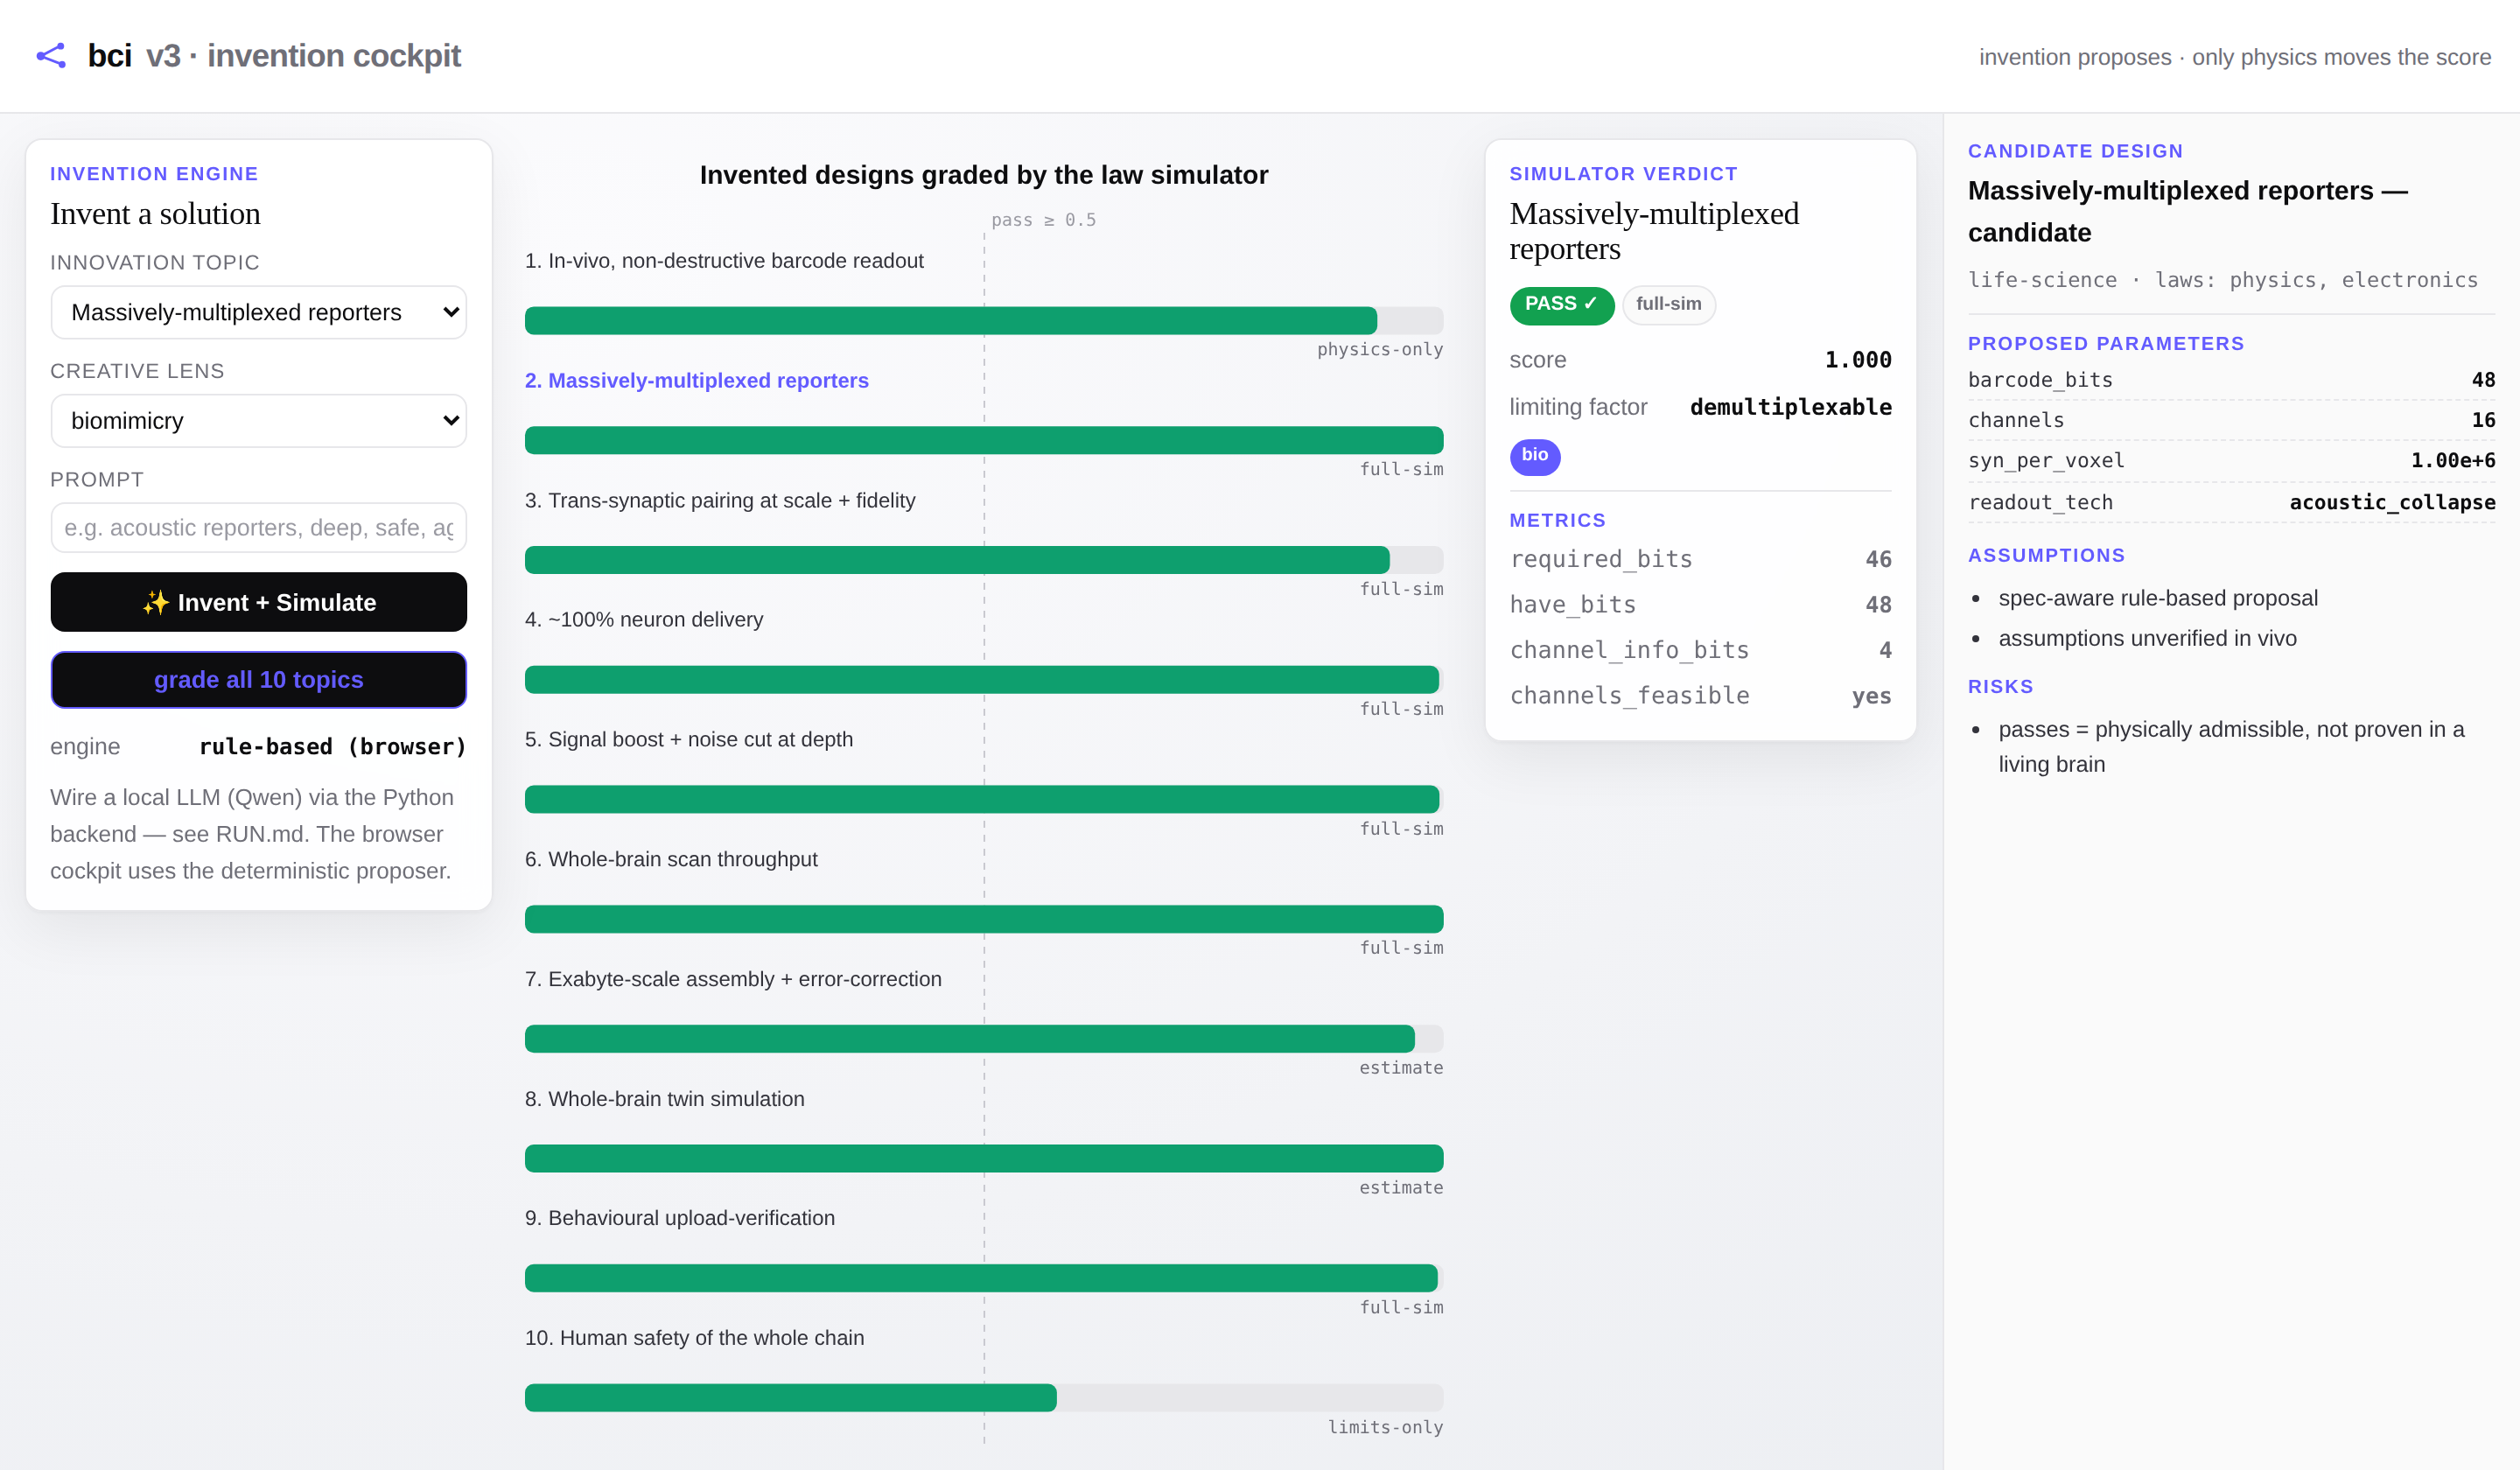
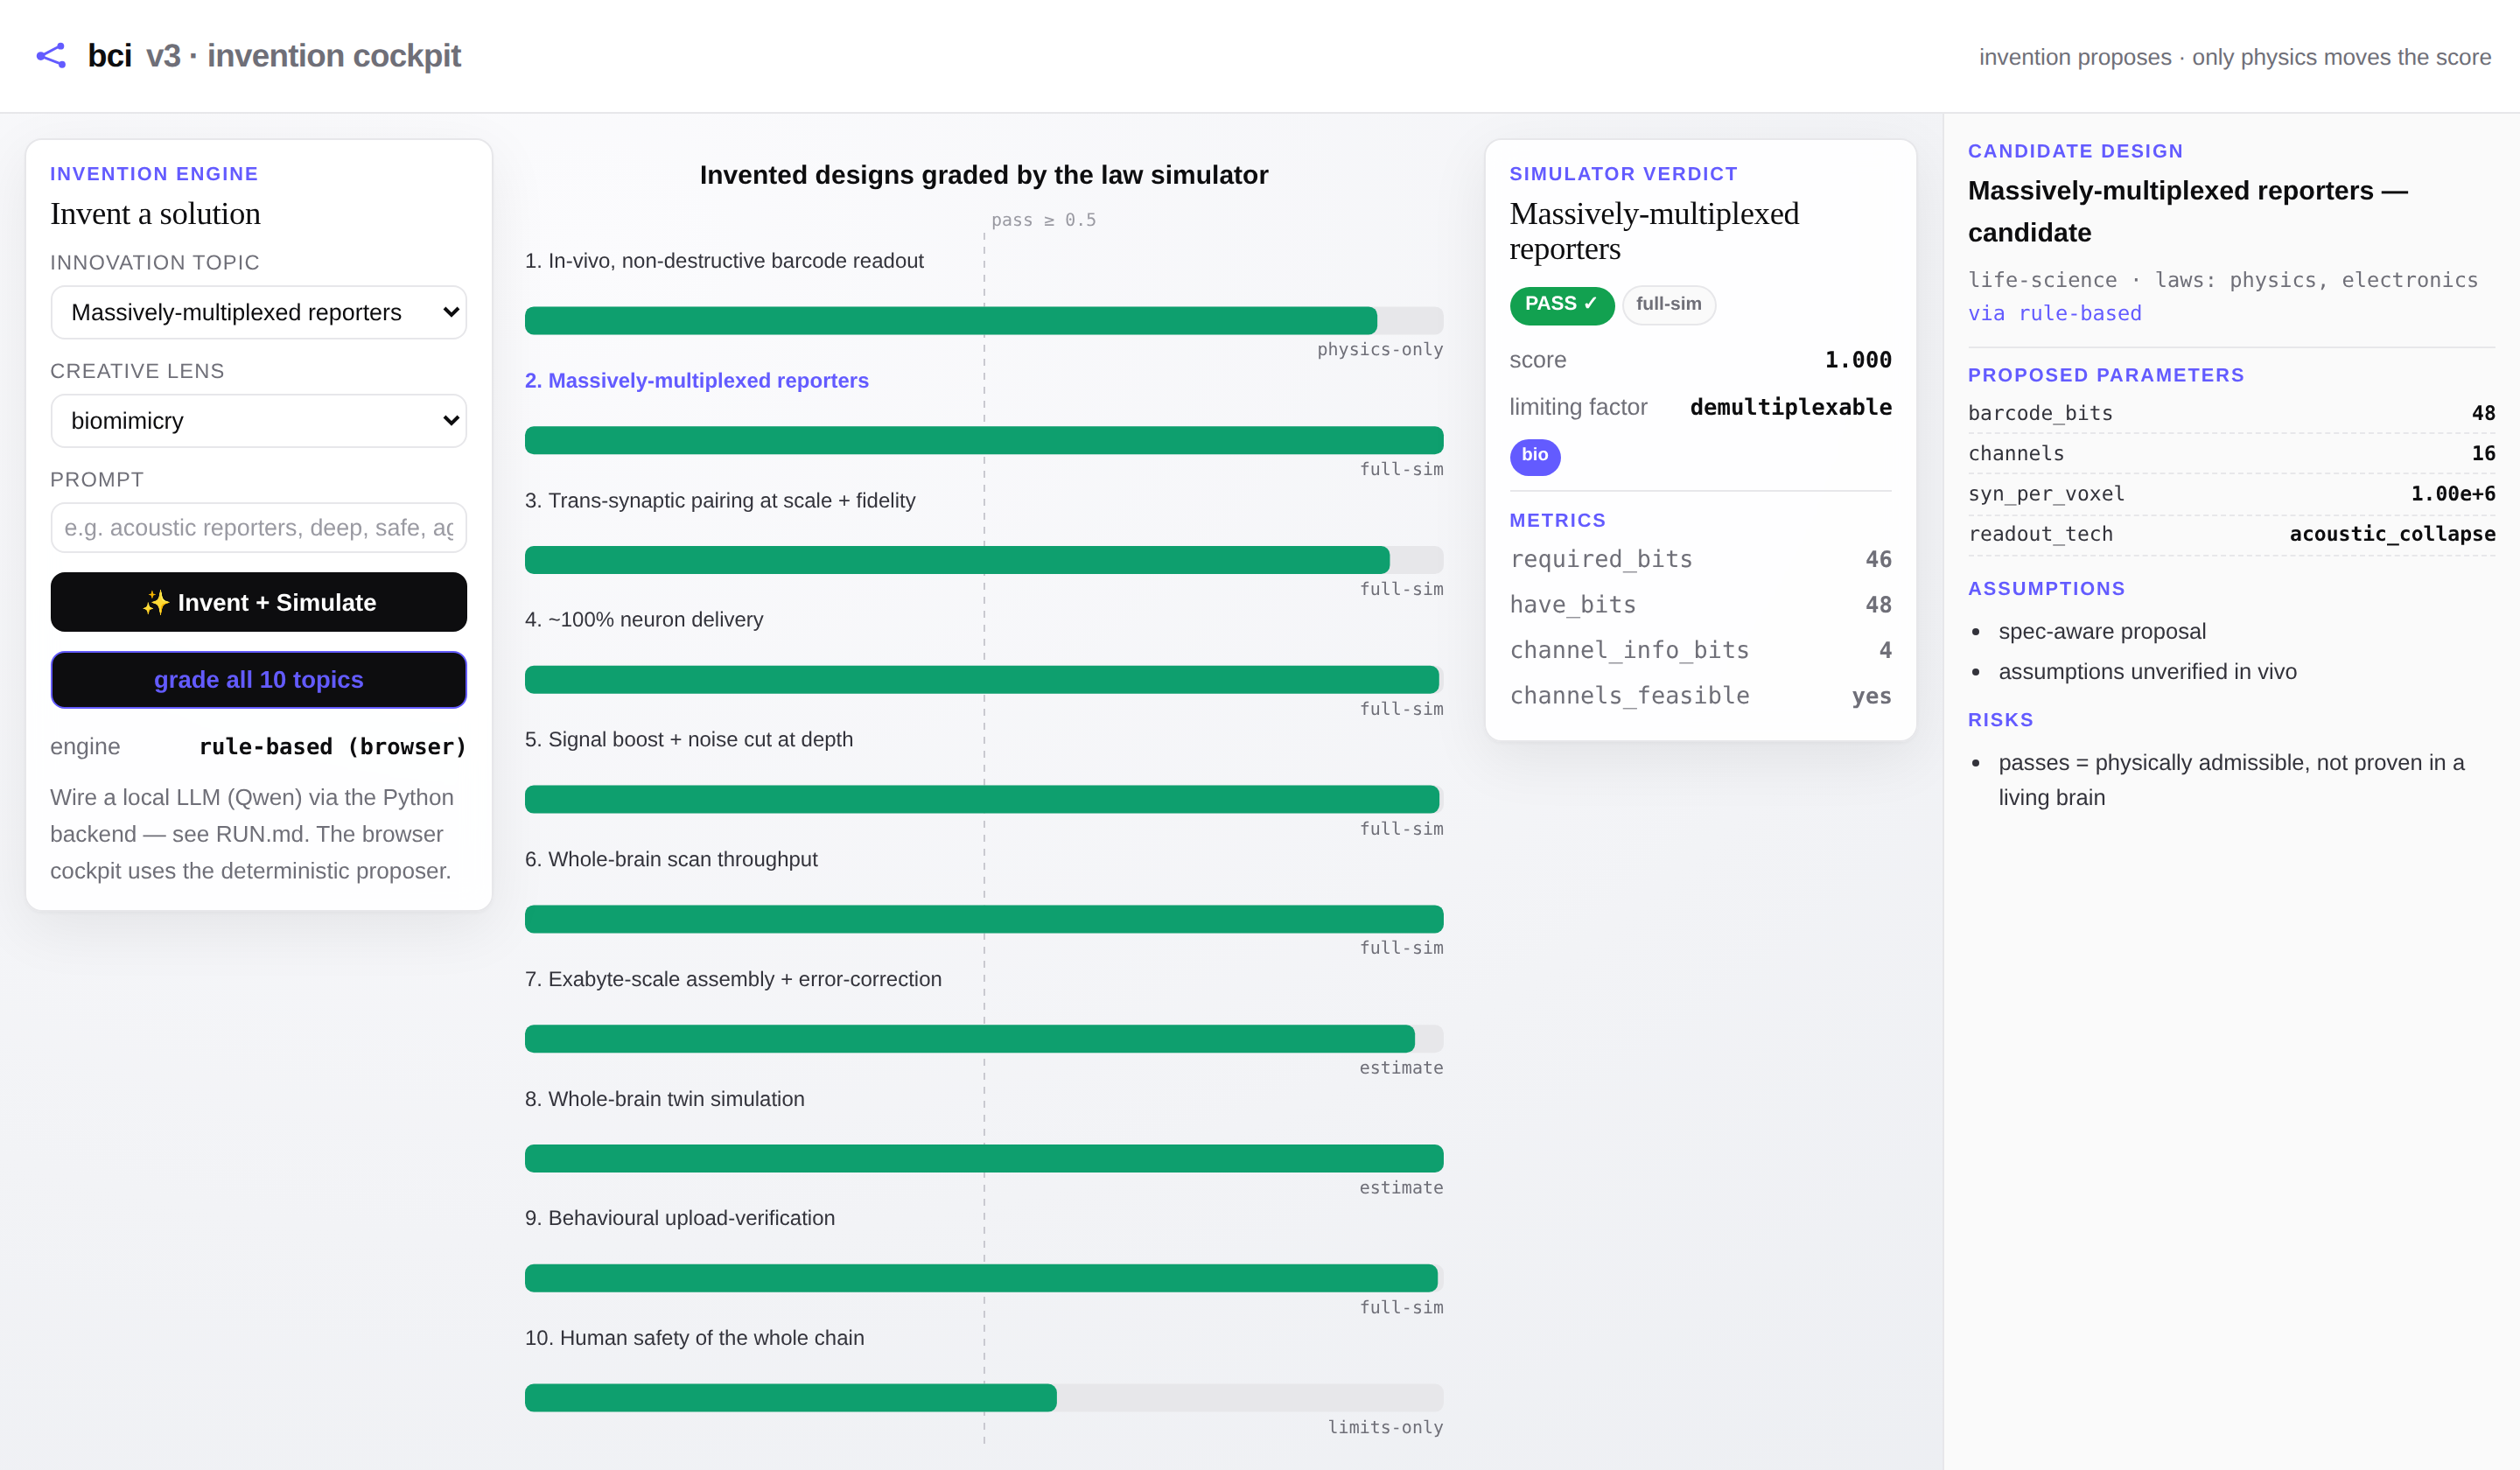
v3: thin FastAPI backend + .env config; cockpit calls Qwen live through the Python engine
- bciv3/api/app.py: FastAPI endpoints (/api/health, /api/topics, /api/invent, /api/design, /api/rank) with CORS
- llm.py: zero-dependency .env loader (LOCAL_LLM_URL / LOCAL_LLM_MODEL / NVIDIA_API_KEY …); exported vars win
- .env.example template; .env git-ignored
- cockpit viewer: auto-detects the backend, routes Invent+Simulate to the Python engine (real LLM lenses), shows provider + mechanism + assumptions/risks; graceful browser fallback when backend down
- RUN.md: backend + .env sections; pyproject api extra; +2 tests (15 total)

Changed region(s): [[0.7812, 0.2167, 0.9688, 0.5571], [0.9062, 0.2786, 1.0, 0.3714]]

diff --git a/docs/app/js/viewer.js b/docs/app/js/viewer.js
@@ -7,6 +7,21 @@ const $ = (id) => document.getElementById(id);
 const scores = {};                 // tid -> {score, passed, fidelity}
 let selected = TOPIC_IDS[0];
 
+// Optional Python backend (FastAPI). If it's up, 'Invent + Simulate' routes there so the real
+// LLM lenses + critique loop run (and your local Qwen, if wired). Otherwise the browser proposer.
+const API = localStorage.getItem('bciv3_api') || 'http://localhost:8000';
+let apiUp = false, apiProvider = null;
+
+async function probeApi() {
+  try {
+    const r = await fetch(API + '/api/health', { signal: AbortSignal.timeout(1200) });
+    if (!r.ok) return;
+    const h = await r.json();
+    apiUp = true; apiProvider = h.backends?.provider || null;
+    $('backend').textContent = apiProvider ? `${apiProvider} (backend)` : 'backend (no LLM)';
+  } catch { apiUp = false; }
+}
+
 // ---- populate selectors ----
 for (const tid of TOPIC_IDS) {
   const o = document.createElement('option');
@@ -69,12 +84,32 @@ function roundRect(x, y, w, h, r) {
   ctx.arcTo(x, y + h, x, y, r); ctx.arcTo(x, y, x + w, y, r); ctx.closePath();
 }
 
-// ---- run one invention ----
-function runOne(tid) {
+// ---- run one invention (backend if up → real LLM lenses; else browser proposer) ----
+function runLocal(tid) {
   const cand = invent(tid, $('prompt').value);
   const s = simulate(tid, cand);
   scores[tid] = { score: s.score, passed: s.passed, fidelity: TOPICS[tid].fidelity };
   return { cand, s };
+}
+
+async function runOne(tid) {
+  if (!apiUp) return runLocal(tid);
+  try {
+    const r = await fetch(API + '/api/invent', {
+      method: 'POST', headers: { 'content-type': 'application/json' },
+      body: JSON.stringify({ topic: tid, prompt: $('prompt').value, lens: $('lens').value, backend: 'auto' }),
+      signal: AbortSignal.timeout(120000),
+    });
+    const d = await r.json();
+    if (d.error) throw new Error(d.error);
+    const res = d.result, cand = { ...d.candidate };
+    const s = { score: res.score, passed: res.passed, limiting: res.limiting, metrics: res.metrics };
+    scores[tid] = { score: res.score, passed: res.passed, fidelity: res.fidelity };
+    return { cand, s };
+  } catch (e) {
+    apiUp = false; $('backend').textContent = 'rule-based (browser)';
+    return runLocal(tid);
+  }
 }
 
 function showVerdict(tid, cand, s) {
@@ -93,9 +128,17 @@ function showVerdict(tid, cand, s) {
   $('c-domain').textContent = `${t.domain} · laws: ${t.laws.join(', ')}`;
   $('c-params').innerHTML = Object.entries(cand.params).map(([k, v]) =>
     `<div class="kv"><span>${k}</span><b>${fmt(v)}</b></div>`).join('');
-  $('c-assume').innerHTML = `<li>spec-aware rule-based proposal</li><li>assumptions unverified in vivo</li>`;
-  $('c-risks').innerHTML = `<li>passes = physically admissible, not proven in a living brain</li>`;
+  const li = (arr, fb) => (arr && arr.length ? arr : fb).map((x) => `<li>${esc(x)}</li>`).join('');
+  $('c-assume').innerHTML = li(cand.assumptions, ['spec-aware proposal', 'assumptions unverified in vivo']);
+  $('c-risks').innerHTML = li(cand.risks, ['passes = physically admissible, not proven in a living brain']);
+  // mechanism (LLM path) + provenance
+  const via = cand.backend === 'llm' ? `${cand.provider || 'llm'} · lens: ${cand.lens || '?'}`
+            : cand.backend === 'llm-refine' ? 'llm (refined)' : 'rule-based';
+  $('c-mech').innerHTML = cand.mechanism ? `<div class="eyebrow" style="margin-top:.6rem">Mechanism</div><p class="small" style="color:var(--ink-2)">${esc(cand.mechanism)}</p>` : '';
+  $('c-via').textContent = 'via ' + via;
 }
+
+function esc(s) { return String(s).replace(/[<>&]/g, (c) => ({ '<': '&lt;', '>': '&gt;', '&': '&amp;' }[c])); }
 
 function fmt(v) {
   if (typeof v === 'boolean') return v ? 'yes' : 'no';
@@ -105,14 +148,26 @@ function fmt(v) {
 }
 
 // ---- events ----
-$('topic').addEventListener('change', (e) => { selected = e.target.value; const { cand, s } = runOne(selected); showVerdict(selected, cand, s); draw(); });
-$('invent').addEventListener('click', () => { selected = $('topic').value; const { cand, s } = runOne(selected); showVerdict(selected, cand, s); draw(); });
-$('all').addEventListener('click', () => {
-  for (const tid of TOPIC_IDS) runOne(tid);
-  const { cand, s } = runOne(selected); showVerdict(selected, cand, s); draw();
+async function inventSelected() {
+  selected = $('topic').value;
+  $('invent').textContent = apiUp ? '… inventing (LLM)' : '… inventing';
+  const { cand, s } = await runOne(selected);
+  showVerdict(selected, cand, s); draw();
+  $('invent').textContent = '✨ Invent + Simulate';
+}
+$('topic').addEventListener('change', inventSelected);
+$('invent').addEventListener('click', inventSelected);
+$('all').addEventListener('click', async () => {
+  $('all').textContent = '… grading all';
+  for (const tid of TOPIC_IDS) { await runOne(tid); draw(); }
+  const { cand, s } = await runOne(selected); showVerdict(selected, cand, s); draw();
+  $('all').textContent = 'grade all 10 topics';
 });
 
 // ---- init ----
 $('topic').value = selected;
-{ const { cand, s } = runOne(selected); showVerdict(selected, cand, s); }
+(async () => {
+  await probeApi();
+  const { cand, s } = await runOne(selected); showVerdict(selected, cand, s); draw();
+})();
 resize();

diff --git a/docs/app/index.html b/docs/app/index.html
@@ -62,6 +62,8 @@
       <div class="eyebrow">Candidate design</div>
       <h4 id="c-title">—</h4>
       <div class="mono muted small" id="c-domain"></div>
+      <div class="mono small" id="c-via" style="color:var(--molecular)"></div>
+      <div id="c-mech"></div>
       <hr class="divider" />
       <div class="eyebrow">Proposed parameters</div>
       <div id="c-params"></div>

diff --git a/backend/bciv3/api/app.py b/backend/bciv3/api/app.py
@@ -1,0 +1,76 @@
+"""Thin FastAPI backend — lets the cockpit call the Python invention engine (and your local
+Qwen) live. The browser cockpit runs the deterministic proposer on its own; when this server is
+up, the cockpit routes 'Invent + Simulate' here so the real LLM lenses + critique loop run.
+
+Run:  uvicorn bciv3.api.app:app --reload --port 8000
+CORS is wide-open (localhost dev tool); tighten `allow_origins` if you expose it.
+"""
+
+from __future__ import annotations
+
+from fastapi import FastAPI
+from fastapi.middleware.cors import CORSMiddleware
+from pydantic import BaseModel
+
+import bciv3
+from bciv3 import backends, invent, design, rank, report, all_ids
+from bciv3.engine import LENSES
+from bciv3.innovations import CATALOG
+
+app = FastAPI(title="BCI v3 — invention engine", version="0.1.0")
+app.add_middleware(
+    CORSMiddleware, allow_origins=["*"], allow_methods=["*"], allow_headers=["*"],
+)
+
+
+class InventReq(BaseModel):
+    topic: str
+    prompt: str = ""
+    lens: str = "biomimicry"
+    backend: str = "auto"          # auto | llm | fallback
+
+
+class DesignReq(InventReq):
+    rounds: int = 3
+
+
+class RankReq(BaseModel):
+    topic: str
+    prompt: str = ""
+    backend: str = "auto"
+
+
[email redacted]("/api/health")
+def health() -> dict:
+    return {"ok": True, "backends": backends()}
+
+
[email redacted]("/api/topics")
+def topics() -> dict:
+    return {"topics": [
+        {"id": tid, "title": inv.title, "layer": inv.layer, "domain": inv.domain,
+         "laws": inv.laws, "fidelity": inv.fidelity, "params": inv.param_schema}
+        for tid, inv in CATALOG.items()
+    ], "lenses": list(LENSES)}
+
+
[email redacted]("/api/invent")
+def do_invent(req: InventReq) -> dict:
+    if req.topic not in CATALOG:
+        return {"error": f"unknown topic {req.topic!r}", "topics": all_ids()}
+    cand = invent(req.topic, req.prompt, lens=req.lens, backend=req.backend)
+    return {"candidate": cand, "result": report(req.topic, cand)}
+
+
[email redacted]("/api/design")
+def do_design(req: DesignReq) -> dict:
+    if req.topic not in CATALOG:
+        return {"error": f"unknown topic {req.topic!r}", "topics": all_ids()}
+    return design(req.topic, req.prompt, rounds=req.rounds, lens=req.lens, backend=req.backend)
+
+
[email redacted]("/api/rank")
+def do_rank(req: RankReq) -> dict:
+    if req.topic not in CATALOG:
+        return {"error": f"unknown topic {req.topic!r}", "topics": all_ids()}
+    return {"ranked": rank(req.topic, req.prompt, backend=req.backend)}

diff --git a/backend/tests/test_api.py b/backend/tests/test_api.py
@@ -1,0 +1,37 @@
+"""Tests for the thin FastAPI backend + the zero-dependency .env loader."""
+
+from __future__ import annotations
+
+import os
+
+import pytest
+
+
+def test_dotenv_loader_sets_missing_and_respects_existing(tmp_path, monkeypatch):
+    from bciv3 import llm
+    (tmp_path / ".env").write_text('FOO_BAR_V3=from_file\nLOCAL_LLM_MODEL="qwen3.5:9b"\n')
+    monkeypatch.chdir(tmp_path)
+    monkeypatch.delenv("FOO_BAR_V3", raising=False)
+    monkeypatch.setenv("LOCAL_LLM_MODEL", "already-set")   # existing must win
+    llm._load_dotenv()
+    assert os.environ["FOO_BAR_V3"] == "from_file"
+    assert os.environ["LOCAL_LLM_MODEL"] == "already-set"
+
+
+def test_api_endpoints():
+    pytest.importorskip("fastapi")
+    from fastapi.testclient import TestClient
+    from bciv3.api.app import app
+    c = TestClient(app)
+
+    assert c.get("/api/health").json()["backends"]["fallback"] is True
+    t = c.get("/api/topics").json()
+    assert len(t["topics"]) == 10 and len(t["lenses"]) == 10
+
+    r = c.post("/api/invent", json={"topic": "multiplexed_reporters", "backend": "fallback"}).json()
+    assert r["result"]["passed"] and set(r["candidate"]["params"])
+
+    assert c.post("/api/invent", json={"topic": "nope", "backend": "fallback"}).json().get("error")
+
+    rk = c.post("/api/rank", json={"topic": "neuron_delivery", "backend": "fallback"}).json()
+    assert len(rk["ranked"]) == 10

diff --git a/backend/bciv3/llm.py b/backend/bciv3/llm.py
@@ -17,6 +17,29 @@ from __future__ import annotations
 import json
 import os
 import urllib.request
+from pathlib import Path
+
+
+def _load_dotenv() -> None:
+    """Zero-dependency .env loader: read KEY=VALUE lines from the first .env found walking up from
+    here (backend/ or repo root). Existing environment variables always win, so real exported vars
+    override the file. Paste LOCAL_LLM_URL / LOCAL_LLM_MODEL / NVIDIA_API_KEY etc. into .env."""
+    here = Path(__file__).resolve()
+    for base in [Path.cwd(), *here.parents]:
+        env = base / ".env"
+        if env.is_file():
+            for line in env.read_text().splitlines():
+                line = line.strip()
+                if not line or line.startswith("#") or "=" not in line:
+                    continue
+                k, v = line.split("=", 1)
+                k, v = k.strip(), v.strip().strip('"').strip("'")
+                if k and k not in os.environ:
+                    os.environ[k] = v
+            return
+
+
+_load_dotenv()
 
 NVIDIA_BASE = "https://integrate.api.nvidia.com/v1"
 OPENAI_BASE = "https://api.openai.com/v1"

diff --git a/backend/bciv3/api/__init__.py b/backend/bciv3/api/__init__.py
@@ -1,0 +1,5 @@
+"""FastAPI backend exposing the invention engine + simulator to the cockpit."""
+
+from .app import app
+
+__all__ = ["app"]

diff --git a/RUN.md b/RUN.md
@@ -52,7 +52,57 @@ simulator, prints a scorecard, and writes `docs/media/scorecard.png`.
 
 ---
 
-## 3. Wire your local LLM (Qwen) — optional
+## 3. Live LLM in the cockpit — the FastAPI backend
+
+The browser cockpit runs the deterministic proposer on its own. Start the backend and it routes
+**Invent + Simulate** through the Python engine — so the real LLM lenses + critique loop (and your
+local Qwen) run, and the design flows back into the cockpit.
+
+```bash
+cd backend
+pip install -e ".[api]"
+uvicorn bciv3.api.app:app --port 8000        # add --reload while developing
+```
+
+Then serve the cockpit (separate terminal) and open it — it auto-detects the backend on
+`http://localhost:8000` and shows the active provider (e.g. `qwen3.5:9b (backend)`):
+
+```bash
+cd docs && python -m http.server 8097        # → http://localhost:8097/app/
+```
+
+> Point the cockpit at a different backend URL from the browser console:
+> `localStorage.setItem('bciv3_api','http://host:8000')`. If the backend is down, the cockpit
+> silently falls back to the in-browser proposer.
+
+---
+
+## 3b. Configure keys with a `.env` file (recommended)
+
+Paste your settings once into `backend/.env` (copied from `backend/.env.example`) instead of
+exporting every time. The engine auto-loads it; real exported vars still win. **`.env` is
+git-ignored — never commit it.**
+
+```bash
+cd backend
+cp .env.example .env
+# then edit .env:
+```
+
+```ini
+# backend/.env
+LOCAL_LLM_URL=http://localhost:11434/v1
+LOCAL_LLM_MODEL=qwen3.5:9b
+NVIDIA_API_KEY=nvapi-xxxxxxxxxxxxxxxxxxxxxxxx
+BCI_LLM_MODEL=qwen/qwen2.5-7b-instruct
+```
+
+Provider order stays local (Qwen) → NVIDIA NIM → cloud → rule-based, so with both set, Qwen is
+used first and NIM is the automatic fallback.
+
+---
+
+## 4. Wire your local LLM (Qwen) — details
 
 The engine runs fully **without** an LLM (deterministic rule-based fallback). To use your local
 **Qwen 7B** for real creative invention, point the adapter at any OpenAI-compatible server
@@ -99,7 +149,7 @@ export BCI_LLM_MODEL="qwen/qwen2.5-7b-instruct"
 
 ---
 
-## 4. Use it from Python
+## 5. Use it from Python
 
 ```python
 import bciv3
@@ -121,7 +171,7 @@ print(bciv3.LENSES)               # the 10 invention lenses
 
 ---
 
-## 5. Updating later
+## 6. Updating later
 
 ```bash
 git pull origin main

diff --git a/README.md b/README.md
@@ -11,7 +11,7 @@ physics can move the score.**
 
 [![License: MIT](https://img.shields.io/badge/License-MIT-0d0d0f.svg)](LICENSE)
 [![Python 3.10+](https://img.shields.io/badge/python-3.10+-2f6fed.svg)](https://www.python.org/)
-[![Tests](https://img.shields.io/badge/tests-13%20passing-0e9f6e.svg)](backend/tests)
+[![Tests](https://img.shields.io/badge/tests-15%20passing-0e9f6e.svg)](backend/tests)
 [![Topics](https://img.shields.io/badge/innovation%20topics-10-635bff.svg)](#-the-10-innovation-topics)
 [![Lenses](https://img.shields.io/badge/invention%20lenses-10-635bff.svg)](#-the-invention-engine)
 [![LLM](https://img.shields.io/badge/LLM-local%20Qwen%20first%20·%20NIM%20fallback-d98218.svg)](RUN.md)
@@ -51,8 +51,10 @@ _Author: **Dr. Sanjay Anbu**_
 - ✅ **Invent → simulate → refine loop** — failures feed the limiting number back to the engine.
 - ✅ **Candidate ranking** — one design per lens, ordered by simulated score (an idea tournament).
 - ✅ **Honest fidelity flags** — a pass means *physically admissible*, never *proven in a living brain*.
-- ✅ **13 tests, deterministic** — the whole pipeline runs offline in CI.
+- ✅ **15 tests, deterministic** — the whole pipeline runs offline in CI.
 - ✅ **Cockpit GUI** — v1's theme + cockpit view; pick a topic, invent, and watch the law simulator grade it live in the browser.
+- ✅ **Thin FastAPI backend** — the cockpit calls the Python engine (and your local Qwen) live; auto-detected, graceful browser fallback.
+- ✅ **`.env` config** — paste `LOCAL_LLM_URL` / `LOCAL_LLM_MODEL` / `NVIDIA_API_KEY` once (zero-dependency loader, git-ignored).
 - ⬜ **Amber topics as full estimators** — richer models for assembly / twin-sim at scale (Phase 4).
 
 ---